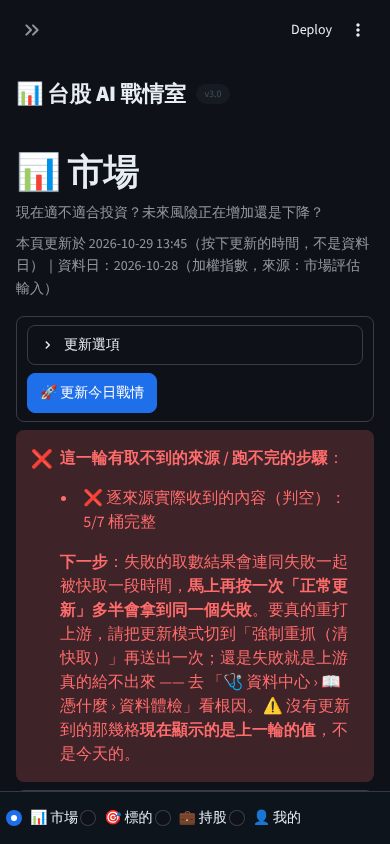
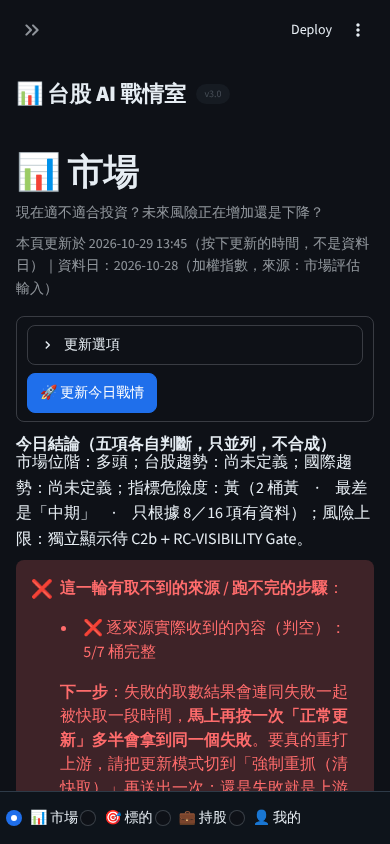
docs(P4-1／DEC-118): 總管判定 Z 落盤＋位置字串盤點＋四態實量；BACKLOG P1R-P4-D1-REPORT-SPLIT 關閉
- 線框 §10.7.3：判定 Z、C1-9 嚴格化／D1／C1-10 守衛、手機四態實量（今日結論皆在第一屏內）、「頁首／更新鈕下方」字串逐字盤點與判定
- measure_p4_1.js 加「報告真錯誤」探針；量測 JSON 與第一屏截圖更新
- PR_NOTES 第八段、HANDOFF、PROJECT_STATE 同步；Fast 35737／slow 183 passed、0 failed

Claude-Session: https://claude.ai/code/session_01HeE7G2SYKZyXzoNmYMAR8j

Changed region(s): [[0.0308, 0.4929, 0.9846, 0.955]]

diff --git a/docs/vnext/phase4_market/p4_1/measure_p4_1.js b/docs/vnext/phase4_market/p4_1/measure_p4_1.js
@@ -52,6 +52,7 @@ const PROBE = (vh) => {
     ['更新報告', first(/上一次更新的結果/)],
     ['結論標題', first(/^今日結論（五項各自判斷/)],
     ['結論句', first(/^市場位階：.*台股趨勢：/)],
+    ['報告真錯誤', first(/這一輪有取不到的來源/)],   // DEC-118 D1：應緊接結論句
     ['tile_市場位階', first(/^市場位階$/)],
     ['tile_水位', first(/^建議總持股水位$/)],
     ['tile_風險', first(/^今日主要風險$/)],

diff --git a/docs/PROJECT_STATE.md b/docs/PROJECT_STATE.md
@@ -800,3 +800,4 @@
 - **Phase 4 步驟 0 客戶裁示已落盤（2026-10-30，DEC-117；docs-only，`src/`、`tests/`、`app.py` 0 diff）**（上一點「待客戶拍板」已解除；有意識的更新，不是漏刪；決策者 客戶（DEC-117）＋AI 總管〔事實更新〕）：客戶裁示 **Q1=B**（桌機 3 個核心狀態 tile：市場位階／建議總持股水位／今日主要風險；「🚀 更新今日戰情」為頁首主 CTA、不占 tile；手機 2＋1；客戶明示「固定 3 欄」是桌機核心狀態網格要求、手機依可讀性自適應——客戶解釋記於 DEC-117，`CLAUDE.md` 不改；`CV1-DR-12` 結案）／**Q2=A′**（維持說明句、縮短、保留「指標危險度」「指標明細（16 項）」與指向最上方，不新增 chip）／**Q3=A**（圖用「為什麼／來源／限制／去哪補」；tile／⚡ 維持「查看依據」）／**Q4=P-B**（台股趨勢＝Primary，原生圖＋MA＋y 軸＋圖例；國際 5 系列＝Secondary small multiples、無數字；不做切換列；趨勢未定義仍顯示 `⬜ 尚未定義`）／**Q5=B**（**新順序：頁首 → 更新 CTA → 今日結論 → 3 個核心狀態 → ⚡需要處理 → AI／資料狀態 → Primary Visual**；**取代 DEC-105 1A 在市場頁的舊相對順序**，DEC-105 原文不改、條頭加 📌）／**Q6=A**（風險縮短行「燈色＋桶名＋燈名＋方向」；未評估不等於安全、資料不足／無法判定、尚未載入、真錯誤等退化／護欄句外露逐字）／**Q7=A**（手機 Primary 可在第一屏下方，Gate 登記 mobile exception；手機優先序 結論 > 核心狀態 > 是否需行動 > Primary；Primary 緊接 L1 決策區、不得被 L2／L3 插隊）／**Q8 全 A**（圖 C 原句→「為什麼」、更新 radio＋長說明→「更新選項」、⚡→一行 bar＋展開清單；只能下沉不得刪除）。落點：DEC-117（逐字原文＋supersede 表）；線框 §6 各題裁示＋**§10 施工驗收條件**；契約、Gate、Migration Plan **§20**。**Model×Effort**：客戶同意頁面組裝切 **Opus 5.5＋High**，並指示先停在安全 checkpoint 等其回覆「改好了」才施工；機械式工作可在完整安全 checkpoint 通知後降回 Sonnet 5.5＋Medium。**下一唯一安全接手點＝等客戶回覆「改好了」後才寫 Phase 4 UI code。** ⚠ 整理表與 supersede 判讀為單組產出、待兩組獨立 QA。
 - **Phase 4 P4-1（📊 市場頁第一屏）實作完成、待獨立 QA（2026-10-30；分支 `ccr-c8ef17de-9tw7yt` 本地 commit，未 push、未開 PR；中間批，Visual Fidelity Gate 未判）**（上一點「等客戶回覆『改好了』」已解除：客戶已回覆；有意識的更新，不是漏刪；決策者 AI 總管〔事實更新〕）：動檔＝`src/ui/views/page_market.py`（區塊順序 Q5=B；頁首 CTA；狀態列逐字拆兩處；逐項資料日句下沉「資料來源與完整度」）、`src/ui/views/_market_blocks.py`（`render_core_tiles` 3 tile／手機 2＋1、`render_update_cta`、風險縮短行與整句下沉、`DANGER_POINTER` 24 字、位階 tile 唯一「🔍 查看依據」吸收原 hover-only 出處、⚡ 一行 bar；`render_hero` 因被取代成孤兒而刪）、`src/ui/views/_ui_kit.py`（`single_submit_form` 加性 `options_note`，None 時逐呼叫不變）；`page_today.py`、`app.py`、`services／compute／data／shared`、`requirements.txt`、`compact.py` 0 diff。守衛＝`tests/test_p4_1_market_first_screen.py`（新）＋既有三檔改寫（等強／加嚴，皆附 📌）＋P4 還原鏈頭節 `tests/test_p4_revert_chain.py`（基底 `7484c57b`，接 `uim_revert_for` 開頭，全鏈實跑綠）；17 項 mutation 全轉紅。逐條狀態＝線框 §10.7；PR 五段＝`docs/vnext/phase4_market/p4_1/PR_NOTES.md`。**未過／待總管判斷**：C1-10（手機第一屏放不下 ⚡ bar，loaded y1016／cold y900 vs 可用 791）、C1-9 與 2026-09-24「真錯誤留在收合區外」客戶裁示的衝突（partial 報告態手機結論被推出第一屏）。其他三頁與 `?legacy=1` 與開工前基底逐字相同（實測 8 組）。⚠ 全部為實作組單組產出，未經第二組驗證。
 - **DEC-118 客戶裁示已落盤（2026-10-30）**：問題 1=A（手機「⚡ 需要處理」列 mobile exception：緊接 3 核心狀態之後、不得被 L2／L3 插隊；第一屏優先今日結論＋核心狀態）／問題 2=D1（更新部分失敗的真錯誤外露、放今日結論正下方、不得擠出今日結論）；另落盤 Customer Decision Gate 輸出硬限制（`PROJECT_RULES.md` 第 3 節）與 GitHub Verification Gate 以當下 `origin/main` 為準（第 2 節）。P4-1：C1-10 新條件守衛已落地；**D1 實作停點（實作組未動結構、未改 `page_today.py`）**：① `page_today._render_refresh_report` 一次畫完「真錯誤 `st.error`」與「預設收合的報告 expander」，沒有可單獨呼叫的 API；要把真錯誤放到今日結論下方、報告標題留在 CTA 下方，只能 (X) 改 `page_today.py`（拆成兩支、今天頁輸出逐字不變，但受多條還原鏈守衛且 DEC-081 Q1=C「驗收前不改」）、(Y) 在 `page_market` 複寫約 90 行報告渲染（第二套、需逐字 parity 測試防漂移）、或 (Z) 只在「報告有真錯誤」時把整份既有報告（真錯誤＋收合標題）改畫在今日結論正下方（零複寫，但 X3／X10「頁首更新鈕下方」指路句在該態不準）；② 即使 D1 落地，partial 態真錯誤區塊在手機約 330px 高，放在結論下方會把位階｜水位列推出第一屏（結論底 ≈632＋330 ≈ 960 > 可用 791），與 DEC-118 理由 1「第一屏優先維持今日結論＋核心狀態」互相牽制。 ⚠ 單組產出。
+- **DEC-118 D1 已實作（總管判定 Z，2026-10-30）**：報告含真錯誤時整份既有報告畫在今日結論正下方（真錯誤外露、緊接結論），否則照舊在 CTA 下方；C1-9 嚴格化、D1 partial、C1-10（⚡ 緊接 tile）守衛＋M26～M30 必紅；還原鏈以基底 `7484c57b` 重產；手機今日結論四態皆在第一屏內（partial 449～568），partial 態 3 tile 被下推（客戶知情接受）；Fast 35737／slow 183 passed、0 failed；floor 1.56.0 市場頁 AppTest 321 passed。逐條＝線框 §10.7.3。（上一點「D1 停點」已解除；有意識的更新，不是漏刪；決策者 AI 總管） ⚠ 單組產出。

diff --git a/docs/vnext/PHASE4_MARKET_PAGE_WIREFRAME_2026-10-30.md b/docs/vnext/PHASE4_MARKET_PAGE_WIREFRAME_2026-10-30.md
@@ -708,3 +708,26 @@ y~475┌ 市場位階 ─────┐┌ 建議總持股水位 ──┐     
 | C1-10（DEC-118 新條件）⚡ 緊接 3 tile、中間無他物 | ✅ | `TestC1Order::test_c1_10_alerts_bar_follows_the_three_tiles_with_nothing_in_between`（cold／loaded）；mutation M26（插外露內容）、M27（插 expander）必紅 |
 | C1-10 手機第一屏含今日結論＋位階｜水位列（390×844，可用 791；1.59.2 夾具） | loaded ✅（結論 427～545、列 537～741）／cold ✅（404～497、489～693）／**report 🟡**（結論 514～632 ✅；列 624～828，標題與值在第一屏內、底部「🔍 查看依據」標題列被截 37px）／**partial ❌**（結論 896、列 1006，待 D1） | `docs/vnext/phase4_market/p4_1/measure_p4_1.js` 重跑 |
 | C1-9 嚴格化＋D1 | **⏸ 停點，未實作** | **D1 實作停點（實作組未動結構、未改 `page_today.py`）**：① `page_today._render_refresh_report` 一次畫完「真錯誤 `st.error`」與「預設收合的報告 expander」，沒有可單獨呼叫的 API；要把真錯誤放到今日結論下方、報告標題留在 CTA 下方，只能 (X) 改 `page_today.py`（拆成兩支、今天頁輸出逐字不變，但受多條還原鏈守衛且 DEC-081 Q1=C「驗收前不改」）、(Y) 在 `page_market` 複寫約 90 行報告渲染（第二套、需逐字 parity 測試防漂移）、或 (Z) 只在「報告有真錯誤」時把整份既有報告（真錯誤＋收合標題）改畫在今日結論正下方（零複寫，但 X3／X10「頁首更新鈕下方」指路句在該態不準）；② 即使 D1 落地，partial 態真錯誤區塊在手機約 330px 高，放在結論下方會把位階｜水位列推出第一屏（結論底 ≈632＋330 ≈ 960 > 可用 791），與 DEC-118 理由 1「第一屏優先維持今日結論＋核心狀態」互相牽制。 |
+
+#### 10.7.3 總管判定 Z 後施工（2026-10-30；append-only；決策者 AI 總管〔內部自決〕；上方 §10.7.2「⏸ 停點」已解除，原文保留）
+
+- **判定**：拆法採 **Z**——只在報告含真錯誤（`failures`／`empties`）時，整份既有報告（真錯誤 `st.error`＋預設收合標題）改畫在今日結論正下方；無真錯誤時維持 CTA 區收合。不改 `page_today.py`（DEC-081 Q1=C）、不複寫。partial 態 3 tile 被下推：客戶裁示 D1 時已知情（送審 D1 缺點明列「部分失敗時，3 張狀態卡會被往下推」）→ 接受，不縮摘要、不新增文案。report 態位階｜水位列底部「🔍 查看依據」標題列被截 37px：接受（標題與值在第一屏內）。
+
+| 條件 | 狀態 | 守衛／證據 |
+|---|---|---|
+| C1-9 嚴格化（任何狀態 CTA→結論之間無外露內容；乾淨報告只有 1 個收合標題，有真錯誤時 0 個） | ✅ | `TestC1Order::test_c1_9_strict_nothing_exposed_between_cta_and_conclusion_in_any_state`（loaded／cold × 無報告／乾淨／有真錯誤）、`test_c1_9_between_cta_and_conclusion_only_collapsed_report_expander`；M28／M29 |
+| D1：partial 真錯誤外露、緊接今日結論；結論→tile 之間只有這份報告；⚡ 緊接 tile | ✅ | `test_d1_partial_true_errors_are_exposed_directly_below_the_conclusion`（loaded／cold）；M30 |
+| C1-10（DEC-118）⚡ 緊接 3 tile | ✅ | `test_c1_10_alerts_bar_follows_the_three_tiles_with_nothing_in_between`；M26／M27 |
+| 手機 390×844（可用 791）今日結論在第一屏內 | loaded 427～545 ✅／cold 404～497 ✅／report 514～632 ✅／**partial 449～568 ✅**（真錯誤 576 起緊接） | `_measure_p4_1.json`（1.59.2 夾具）；截圖 `p4_1_*_390.png` |
+| 手機位階｜水位列 | loaded 537～741 ✅／cold 489～693 ✅／report 624～828（底部標題列截 37px，接受）／partial 1006～1210（被真錯誤下推，客戶知情接受） | 同上 |
+| 桌機 | partial：結論 362～430、真錯誤 446～614、報告標題 631、3 tile 686、⚡ 1052 | 同上 |
+
+**「頁首／更新鈕下方」位置字串逐字盤點（總管指示）**：
+
+| 字串（出處） | 顯示位置 | 各態 | partial 態判定（報告在今日結論正下方） |
+|---|---|---|---|
+| X3「按過更新之後，頁首更新鈕下方的「上一次更新的結果」會列出…」（`page_market.X3_TEXT`） | 「風險上限：為什麼…」展開區（L2，收合） | 四態皆在 | **字面成立**：報告仍在頁首「🚀 更新今日戰情」鈕的下方（手機鈕 y≈404、報告 y≈576 起；桌機鈕 y207、報告 y446 起），只是中間隔了今日結論一段 |
+| X10 `report_pointer`：「本次更新的逐來源結果見頁首更新鈕下方「上一次更新的結果」」／無報告時「按頁首的更新鈕後，報告會出現在更新鈕下方」 | 「資料來源與完整度」展開區（L2，收合） | 四態皆在 | **字面成立**（同上） |
+| `HEALTH_CHIP_POINTER`「（逐來源結果見頁首更新鈕下方的更新報告）」 | AI／資料狀態行（L1 外露） | 四態皆在 | **字面成立**；且該行在 ⚡ 之後，報告位於其上方 |
+| `WATER_REPORT_DISCLOSURE`「頁首「上一次更新的結果」展開後…」 | 水位 tile「🔍 查看依據」內（收合） | 四態皆在 | **判定可接受（單組判讀，列 QA 複核點）**：此句說報告在「頁首」；partial 態報告位於頁首 CTA 區之後第一段（今日結論）的正下方、在 3 核心狀態之前，仍屬頁面最上方區塊（桌機報告標題 y631 在第一屏內；手機真錯誤 y576 起在第一屏內、報告標題 y921 在第一屏外）。不新造文案、也不隱藏這條揭露 |
+| `REFRESH_SPEED_HINT`「…並在頁首留下這一輪的結果」（`page_today` 常數，經「更新選項」說明逐字沿用） | 「更新選項」摺疊（收合） | 四態皆在 | 同上判定（單組判讀，列 QA 複核點）；改它＝動 `page_today.py` 或與今天頁字串分岔 |

diff --git a/docs/BACKLOG.md b/docs/BACKLOG.md
@@ -1128,6 +1128,6 @@
 | **P1R-P4-SM-NAME-LEN** | **P2** | 小倍數 `SM_NAME_MAX_CHARS=8` vs 現有國際系列名 `納斯達克 IXIC`、`費城半導體 SOX`（各 9 字）；需顯示名對映（不改 `INTL_MAP` 鍵）或調元件上限。出處 `docs/vnext/PHASE4_MARKET_PAGE_WIREFRAME_2026-10-30.md`；2026-10-30 新增，不插隊 | open（登記）；📌 DEC-117 Q4=P-B 已裁示 → **本項確定需要處理**（內部自決）（2026-10-30 有意識的更新，不是漏刪；決策者 客戶（DEC-117）＋AI 總管〔事實更新〕） | Phase 4 | 內部自決（Q4=P-B 才需要） | 1 |
 | **P1R-P4-HEADER-FORM-HEIGHT** | **P2** | 更新動作列（form＋expander，位於 `st.columns` 欄內）實高未驗，靜態示意只放 40px 按鈕；floor 1.56 的 form 內 expander 只在 D8 驗證報告 AppTest 驗過，1.57～1.58、本頁未驗。出處 `docs/vnext/PHASE4_MARKET_PAGE_WIREFRAME_2026-10-30.md`；2026-10-30 新增，不插隊 | open（登記）；📌 DEC-117 Q1=B 已裁示 → **本項確定需要實量**；若過高使手機結論句被推出第一屏，回報總管（線框 §10 U5）（2026-10-30 有意識的更新，不是漏刪；決策者 客戶（DEC-117）＋AI 總管〔事實更新〕）<br>📌 **2026-10-30 P4-1 已實量**（1.59.2、harness 夾具）：form（「更新選項」標題列＋🚀）**桌機 128px／手機 106px**；手機結論句 loaded／cold／report 仍在第一屏內，**partial（報告有真錯誤）態被推出**；⚡ bar 手機皆在第一屏外（C1-10 ❌，已回報總管）（有意識的更新，不是漏刪；決策者 AI 總管〔事實更新〕） | Phase 4 | Phase 4 實作期 Gate 實量（Q1=B 才需要） | 1 |
 | **P1R-P4-REGIME-FOLD-ENG-WORDS** | **P2** | 📊 市場頁位階 tile「🔍 查看依據」六欄內含工程字樣（`get_macro_state()`、`regime_arbiter.arbitrate_regime()`、L0／L3、生效分支 `warroom`）：P4-1 把原位階卡 hover-only 的「位階的出處」等既有內容逐字下沉到六欄（客戶 Q3／U6：hover 出處併入六欄），字樣本身未改。出處：線框 §10.7.1、`docs/vnext/phase4_market/p4_1/PR_NOTES.md`；2026-10-30 新增，不插隊 | open（登記；維持現況） | Phase 4 之後 | 後續 Phase 處理用語（改字＝改既有揭露文案，須依當時規則判是否請示） | 1 |
-| **P1R-P4-D1-REPORT-SPLIT** | **P1** | DEC-118 D1（更新真錯誤放今日結論正下方、報告標題留 CTA 下方）實作停點：`page_today._render_refresh_report` 無法只畫錯誤或只畫收合部分；選項 X 改 `page_today.py` 拆兩支／Y 市場頁複寫＋parity 測試／Z 只在有真錯誤時整份報告移到結論下方；另 partial 態真錯誤區塊約 330px 會把位階｜水位列推出手機第一屏。出處：線框 §10.7.2；2026-10-30 新增 | blocked（待總管判定，必要時送客戶） | DEC-118 | 判定後實作 D1＋C1-9 嚴格化守衛＋partial 實量 | 1 |
+| **P1R-P4-D1-REPORT-SPLIT** | **P1** | DEC-118 D1（更新真錯誤放今日結論正下方、報告標題留 CTA 下方）實作停點：`page_today._render_refresh_report` 無法只畫錯誤或只畫收合部分；選項 X 改 `page_today.py` 拆兩支／Y 市場頁複寫＋parity 測試／Z 只在有真錯誤時整份報告移到結論下方；另 partial 態真錯誤區塊約 330px 會把位階｜水位列推出手機第一屏。出處：線框 §10.7.2；2026-10-30 新增 | ~~blocked（待總管判定，必要時送客戶）~~ **closed（2026-10-30）**：總管判定 **Z**（內部自決）並已實作——有真錯誤時整份既有報告移到今日結論正下方；partial 態 3 tile 下推依客戶 D1 知情接受；位置字串盤點見線框 §10.7.3（有意識的更新，不是漏刪；決策者 AI 總管） | DEC-118 | 已完成（線框 §10.7.3） | 1 |
 | **P1R-P4-HARNESS-COLD-NOT-TRUE** | **P2** | `tools/visual_fidelity/harness_app.py` 的 `&cold=1` 仍以假資料取代 L3（市場位階仍顯示多頭），不是真冷啟動；真冷啟動態與真資料態未量。出處 `docs/vnext/PHASE4_MARKET_PAGE_WIREFRAME_2026-10-30.md`；2026-10-30 新增，不插隊 | open（登記） | Phase 4 | 工具限制；Gate 報告據實標，必要時補驗真環境 | 1 |
 | **P1R-P4-CHART-D-COLUMN** | **P2** | 圖 D「是否惡化」每列重複 `⬜ 尚未定義`（契約 §8-7 要寫一次）：線框改 header 護欄 chip＋表去該欄；`risk_panel_rows` 三元組與其測試須改寫。出處 `docs/vnext/PHASE4_MARKET_PAGE_WIREFRAME_2026-10-30.md`；2026-10-30 新增，不插隊 | open（登記） | Phase 4 | 已依契約定案（線框 §6.2 D-3）；Phase 4 實作 | 1 |

diff --git a/docs/HANDOFF.md b/docs/HANDOFF.md
@@ -99,6 +99,7 @@
 > | **下一個唯一安全接手點** | **總管就 C1-10／C1-9 判定（必要時附推薦方案送客戶）＋兩組獨立 QA 複驗 P4-1 → push／開 PR／CI 綠 → 才開始 P4-2（圖區）。** 中間批：Stage 不得標 complete、BACKLOG 不得結案 |
 > | 禁止事項 | 沿用上一段；另：⛔ 在 C1-10／C1-9 判定前自行改核准結構（例：手機把 ⚡ 移到 tile 前、把報告真錯誤收進摺疊）；⛔ P4-2 以新基底重產還原組（必須沿用 `7484c57b`） |
 > | DEC-118 後（2026-10-30） | 客戶裁示問題 1=A（手機 ⚡ mobile exception：緊接 3 核心狀態、不得插隊）／問題 2=D1（更新真錯誤外露、放今日結論正下方）＋Customer Decision Gate 輸出硬限制，已落盤（DEC-118、PROJECT_RULES 第 2／3／21.2 節、Gate §8、線框 §10）。main 一律以 `git fetch` 後的 `origin/main` 為準（本分支已 merge 當時 tip）。C1-10 新條件守衛已落地。**D1 實作停點（實作組未動結構、未改 `page_today.py`）**：① `page_today._render_refresh_report` 一次畫完「真錯誤 `st.error`」與「預設收合的報告 expander」，沒有可單獨呼叫的 API；要把真錯誤放到今日結論下方、報告標題留在 CTA 下方，只能 (X) 改 `page_today.py`（拆成兩支、今天頁輸出逐字不變，但受多條還原鏈守衛且 DEC-081 Q1=C「驗收前不改」）、(Y) 在 `page_market` 複寫約 90 行報告渲染（第二套、需逐字 parity 測試防漂移）、或 (Z) 只在「報告有真錯誤」時把整份既有報告（真錯誤＋收合標題）改畫在今日結論正下方（零複寫，但 X3／X10「頁首更新鈕下方」指路句在該態不準）；② 即使 D1 落地，partial 態真錯誤區塊在手機約 330px 高，放在結論下方會把位階｜水位列推出第一屏（結論底 ≈632＋330 ≈ 960 > 可用 791），與 DEC-118 理由 1「第一屏優先維持今日結論＋核心狀態」互相牽制。 **下一唯一安全接手點＝總管就 X／Y／Z 與 partial 態取捨判定（必要時依輸出硬限制送客戶）→ 實作 D1 → 全量測試 → QA → PR。** |
+| D1 實作後（2026-10-30／31） | **DEC-118 D1 已實作（總管判定 Z，2026-10-30）**：報告含真錯誤時整份既有報告畫在今日結論正下方（真錯誤外露、緊接結論），否則照舊在 CTA 下方；C1-9 嚴格化、D1 partial、C1-10（⚡ 緊接 tile）守衛＋M26～M30 必紅；還原鏈以基底 `7484c57b` 重產；手機今日結論四態皆在第一屏內（partial 449～568），partial 態 3 tile 被下推（客戶知情接受）；Fast 35737／slow 183 passed、0 failed；floor 1.56.0 市場頁 AppTest 321 passed。逐條＝線框 §10.7.3。 main 以 `git fetch` 後的 `origin/main` 為準。**下一唯一安全接手點＝兩組獨立 QA 複驗 P4-1 全批 → push／開 PR／CI 綠 → 才開始 P4-2。**（上一列「D1 停點」已解除；有意識的更新，不是漏刪；決策者 AI 總管） |
 | QA 修正輪（2026-10-30） | 兩組獨立 QA 無 BLOCKER；已修：C6-3 真錯誤原因外露（位階 tile／⚡ failed）、手機位階摺疊溢出、CSS 屬性白名單、degraded 守衛、狀態列拆分 fail loud、語意守衛；還原鏈以同一基底重產。**C1-10、partial 態結論被擠出手機第一屏：總管送客戶裁示中，實作組未動結構**。逐條＝線框 §10.7.1、PR_NOTES 第六段 |
 | 未驗 | floor 1.56.0 已以獨立 venv 跑 AppTest（293 passed）與瀏覽器量測（同序）；1.57～1.58 未驗；真資料態、真冷啟動（harness cold 的 L3 仍是假資料）、手機實機、Streamlit Cloud、Safari／Firefox 未驗；本批全部為實作組單組產出，未經第二組驗證 |
 

diff --git a/docs/vnext/phase4_market/p4_1/PR_NOTES.md b/docs/vnext/phase4_market/p4_1/PR_NOTES.md
@@ -184,3 +184,14 @@ M1 結論移回 tile 後（C1-1）／M2 退化句刪「不代表安全」（C6-3
 - 手機 390×844 實量（1.59.2 夾具）：結論＋位階｜水位列——loaded ✅、cold ✅、report 🟡（列底部 🔍 標題列被截 37px）、partial ❌（待 D1）。
 - **D1 實作停點（實作組未動結構、未改 `page_today.py`）**：① `page_today._render_refresh_report` 一次畫完「真錯誤 `st.error`」與「預設收合的報告 expander」，沒有可單獨呼叫的 API；要把真錯誤放到今日結論下方、報告標題留在 CTA 下方，只能 (X) 改 `page_today.py`（拆成兩支、今天頁輸出逐字不變，但受多條還原鏈守衛且 DEC-081 Q1=C「驗收前不改」）、(Y) 在 `page_market` 複寫約 90 行報告渲染（第二套、需逐字 parity 測試防漂移）、或 (Z) 只在「報告有真錯誤」時把整份既有報告（真錯誤＋收合標題）改畫在今日結論正下方（零複寫，但 X3／X10「頁首更新鈕下方」指路句在該態不準）；② 即使 D1 落地，partial 態真錯誤區塊在手機約 330px 高，放在結論下方會把位階｜水位列推出第一屏（結論底 ≈632＋330 ≈ 960 > 可用 791），與 DEC-118 理由 1「第一屏優先維持今日結論＋核心狀態」互相牽制。
 - 本輪測試：市場頁 4 檔＋鏈守衛（p4／uim／nav1／xvext）＋z60＋floor 相容：420 passed；floor 1.56.0 venv 市場頁 4 檔 AppTest：249 passed。Fast／slow 全量待 D1 定案後重跑（本輪未改 `src/`）。
+
+
+## 八、總管判定 Z 後（2026-10-30；append-only；上方第七段「停點」已解除）
+
+- 實作：`page_market.render_page_market` 只在報告含真錯誤時把 `_render_report_guarded` 改在結論句之後呼叫（真錯誤外露、緊接結論；報告收合標題隨之）；無真錯誤時照舊在 CTA 下方。`page_today.py` 0 diff、無複寫。
+- 守衛：C1-9 嚴格化（三態）、D1 partial（真錯誤緊接結論句、結論→tile 只有這份報告、⚡ 緊接 tile）、C1-10（⚡ 緊接 tile）。
+- mutation（排除還原鏈 AST 測試後由語意測試轉紅）：M26 tile 與 ⚡ 之間插外露內容／M27 插 expander → `test_c1_10_*`；M28 有真錯誤仍畫在 CTA 區 → `test_c1_9_strict_*`；M29 乾淨報告也移到結論下 → `test_c1_9_between_cta_and_conclusion_only_collapsed_report_expander`；M30 真錯誤移到 tile 之後 → `test_d1_partial_*`。
+- 還原鏈：以同一基底 `7484c57b` 重產 pair（sha 不變）。
+- 手機實量與位置字串盤點：見線框 §10.7.3。
+- 下沉／位置清單補一列：更新報告（含真錯誤）——有真錯誤時位置由「CTA 下方」改為「今日結論正下方」（DEC-118 D1；只移位、未收合真錯誤）。
+- 測試：floor 1.56.0 venv 市場頁 4 檔＋Phase 2 golden AppTest 321 passed；Fast／slow 全量：**Fast 35737 passed、46 skipped、0 failed；slow 183 passed、5 skipped、0 failed**；鏈守衛（p4／uim／nav1／xvext）＋z60＋floor 相容另跑綠。
